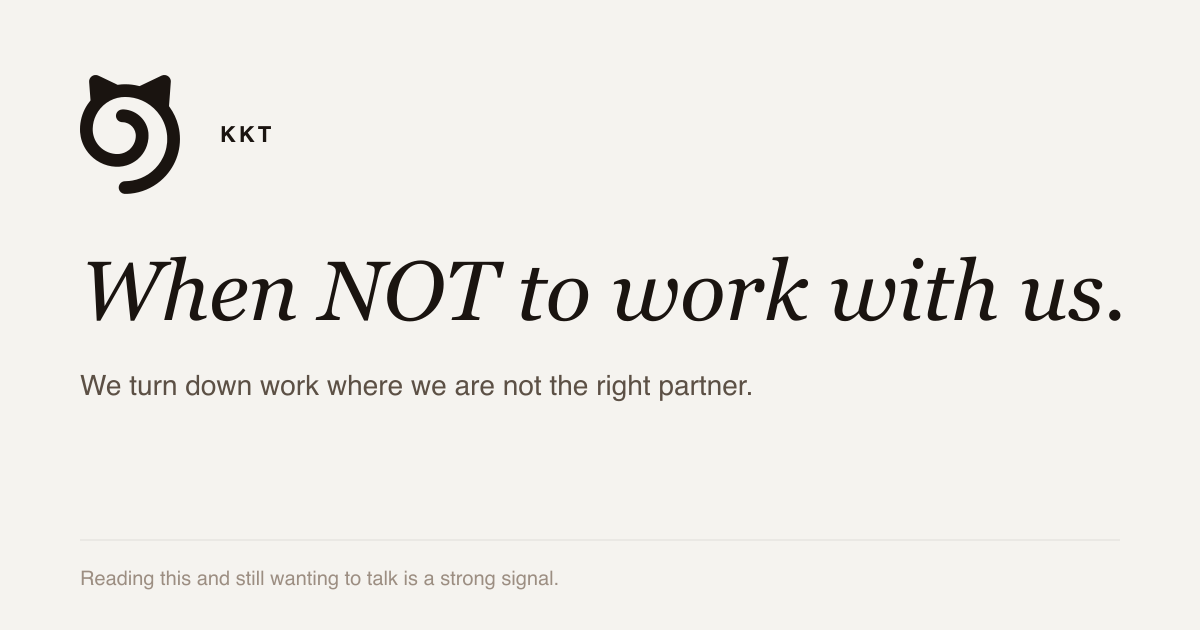
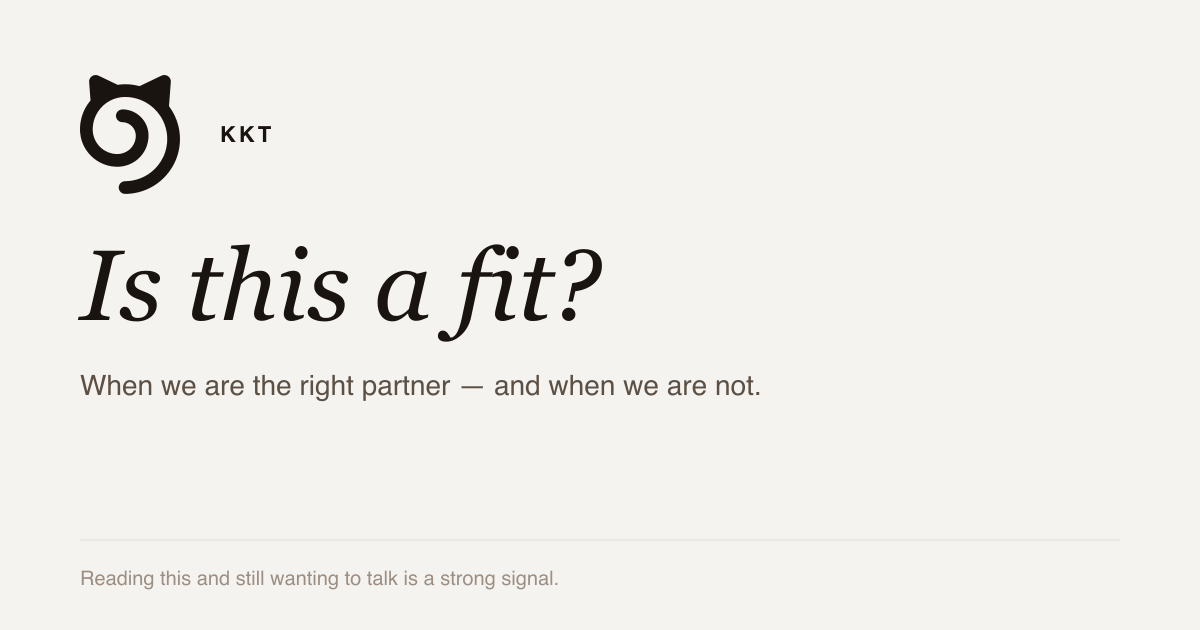
not-for-you: soften tone from refusal to honest fit
Reframes 'When NOT to work with us' as 'Is this a fit?' — same honest
boundaries, warmer framing (per Dennis: too harsh). Rewrites the 7
rules from 'you are X / we are not the fit' to 'if X, here is the
better path', softens nav/footer/breadcrumb/about/insights/contact
labels, the matching advisor knowledge (00-base, 02-services,
03-when-not), and regenerates the OG card.

Changed region(s): [[0.0617, 0.3921, 0.9558, 0.5429], [0.0925, 0.6032, 0.6475, 0.6333]]

diff --git a/scripts/generate-og.py b/scripts/generate-og.py
@@ -57,7 +57,7 @@ CAT_PATH = (
 PAGES = [
     ('home', 'AI that ships, not slides.', 'Senior PMO + AI delivery for mid-sized retailers and fuel networks. Tallinn, EU.',
      'Live with Alfa Oil — $500M revenue, 600+ stations.'),
-    ('not-for-you', 'When NOT to work with us.', 'We turn down work where we are not the right partner.',
+    ('not-for-you', 'Is this a fit?', 'When we are the right partner — and when we are not.',
      'Reading this and still wanting to talk is a strong signal.'),
     ('optimus', 'Optimus.', 'Daily operating intelligence for fuel networks.',
      '600+ stations live. Procurement decisions in 10–15 min a morning.'),

diff --git a/public/api/knowledge/03-when-not.md b/public/api/knowledge/03-when-not.md
@@ -1,55 +1,62 @@
-# When NOT to work with KKT
+# When KKT is — and isn't — the right fit
 
-(Lives publicly on `/not-for-you`. Quote selectively when relevant.)
+(Lives publicly on `/not-for-you`, framed as honest fit rather than
+refusal. Quote selectively and warmly. The point is to save everyone
+time early, not to reject anyone. When a user is off-fit, name the
+mismatch kindly and, where useful, point them toward the kind of
+partner that would serve them better.)
 
-KKT turns down work where it wouldn't be the right partner.
+KKT would rather tell a prospect early that it is not the best fit
+than sell an engagement that will not land.
 
-## You are below ~$50M in revenue
+## If you are earlier than ~$50M in revenue
 
-KKT works with mid-sized retailers and fuel networks. Below that
-scale, the cost of the delivery model exceeds the value KKT can
-realistically create. There are good partners for smaller companies.
-KKT is not one of them.
+KKT is built for mid-sized retailers and fuel networks. Below that
+scale, the delivery model usually costs more than the value it can
+create — the user would be paying for rigor they do not need yet.
+There are excellent partners sized for smaller companies, and starting
+with one of them is the right first move.
 
-## You want AI strategy without delivery
+## If you want strategy without anyone shipping it
 
-KKT does not write decks that sit on a shelf. Every engagement KKT
-accepts is shaped to put something operating into the business. If
-the user wants a slide-led strategy with no delivery team, KKT is not
-the fit.
+KKT's work is shaped to put something operating into the business, not
+to produce a deck that sits on a shelf. If what the user needs right
+now is a slide-led strategy with no delivery team behind it, a strategy
+house serves them better.
 
-## You have no senior data lead inside the company
+## If there is no senior owner inside to inherit the work
 
-If KKT is the only people in the room who care about data quality,
-governance, and adoption, the project will fail after KKT leaves. KKT
-needs a senior counterpart inside the user's organisation — not a
-champion in name, an actual one with authority and time.
+The systems KKT builds keep running after it leaves only if someone
+senior inside owns them — with real authority and real time, not just
+a title. If that person is not in place yet, the honest first step is
+to get them in seat; KKT is glad to help scope the role first.
 
-## You need a model in production in four weeks
+## If you need a model in production in four weeks
 
-A diagnostic in four weeks — yes. A model running in the business and
-creating measured outcomes in four weeks — no. Anyone who promises
-that is selling something else. KKT will not.
+A diagnostic in four weeks — yes. A model live in the business and
+moving real numbers in four weeks — that KKT will not promise, and
+would rather say so than over-commit. Good delivery has a floor on
+time, and KKT will walk the user through a realistic one.
 
-## You are in heavily regulated banking, public sector, or defence
+## If you are in heavily regulated banking, public sector, or defence
 
-These domains have their own delivery patterns and compliance bars.
-KKT respects them; KKT does not pretend to be experts in them. There
-are firms built specifically for that work, and the user should hire
-one of them.
+These domains carry compliance bars and delivery patterns KKT does not
+claim deep expertise in. KKT respects that work enough not to pretend —
+firms built specifically for it serve the user better.
 
-## You want a generic AI vendor
+## If the goal is just to "deploy some AI"
 
-If the goal is "deploy a chatbot", "roll out Copilot", or "do an LLM
-pilot" without a clear business outcome — KKT is the wrong call. KKT
-does not do AI for AI's sake. KKT does data, models, and AI where
-they earn their place against margin, cash, availability, customer
-value, or productivity.
+If the ask is to deploy a chatbot, roll out Copilot, or run an LLM
+pilot with no business outcome attached, KKT is probably not the best
+call — it puts data, models, and AI to work only where they earn their
+place against margin, cash, availability, customer value, or
+productivity. If there is a real outcome underneath the ask, that is
+worth a conversation.
 
-## You are looking for a body shop
+## If you need a team to run things for you
 
-KKT works alongside the client team. KKT brings senior delivery rigor,
-AI capability, and PMO discipline. KKT does not run operations, IT
-departments, or data functions for the client. If the client needs
-full-service outsourcing or staff augmentation, hire a different kind
-of firm.
+KKT works alongside the client's people and brings senior delivery
+rigor, AI capability, and PMO discipline — but it does not take over
+operations, IT, or the data function. If the user needs full-service
+outsourcing or staff augmentation, a different kind of firm is the
+better fit.

diff --git a/public/api/knowledge/02-services.md b/public/api/knowledge/02-services.md
@@ -45,13 +45,15 @@ four most common engagement starting points around it:
    to release it, per fuel and per region. Inventory turnover stops
    being a quarterly review.
 
-## What we don't do
+## Where we're the right fit — and where we're not
 
-(Full version on `/not-for-you`.)
+(Full version on `/not-for-you`, framed as honest fit.)
 
-We turn down work where we wouldn't be the right partner. Below ~$50M
-in revenue our delivery model costs more than we can create. We don't
-write decks without delivery. We don't ship into companies with no
-senior internal data lead. We don't promise a model in production in
-four weeks. We don't work in heavily regulated banking, public sector,
-or defence. We're not a body shop.
+We're at our best with mid-sized retailers and fuel networks that have
+a senior internal owner ready to inherit the work. We're probably not
+the best first call below ~$50M in revenue (the delivery model costs
+more than it can create at that scale), for strategy with no delivery
+behind it, for a model promised in production in four weeks, for
+heavily regulated banking / public sector / defence, or for
+full-service outsourcing. In those cases there's usually a better-fit
+partner, and we'll say so early.

diff --git a/public/api/knowledge/00-base.md b/public/api/knowledge/00-base.md
@@ -193,9 +193,12 @@ lead), and they're asking "could KKT help?", point them to a
 diagnostic. The diagnostic is two weeks, fixed-shape, decision-grade
 output. /approach has the full picture; /contact is how to start.
 
-## When to say no
+## When it may not be a fit
 
 If the user is clearly outside our fit (sub-$50M, banking, public
-sector, defence, body-shop ask, "deploy a chatbot" with no business
-goal), say so warmly and point them at /not-for-you. That page is on
-the site for exactly this reason.
+sector, defence, a "run it for us" ask, "deploy a chatbot" with no
+business goal), say so warmly and constructively — name the mismatch,
+and where useful point them toward the kind of partner that would
+serve them better. /not-for-you frames the same fit honestly; point
+them there. Never make it feel like a rejection — it is an honest
+read on fit, offered early to save everyone time.
